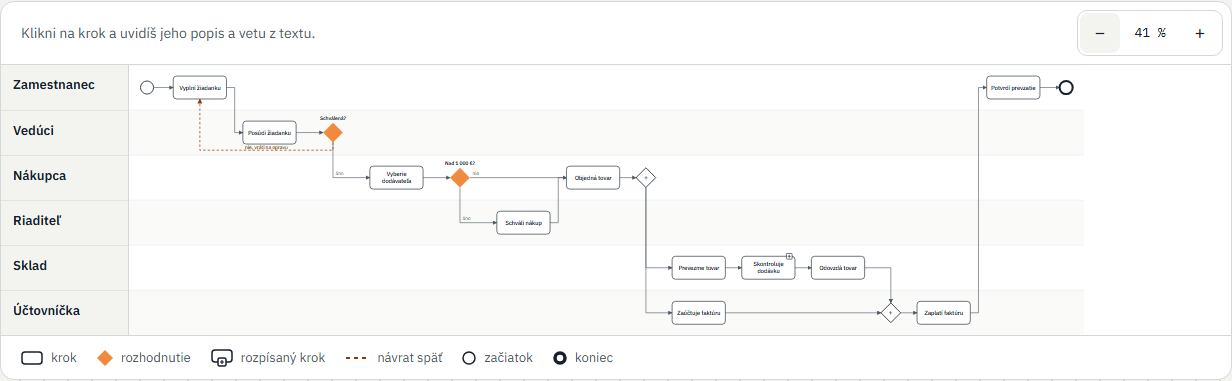
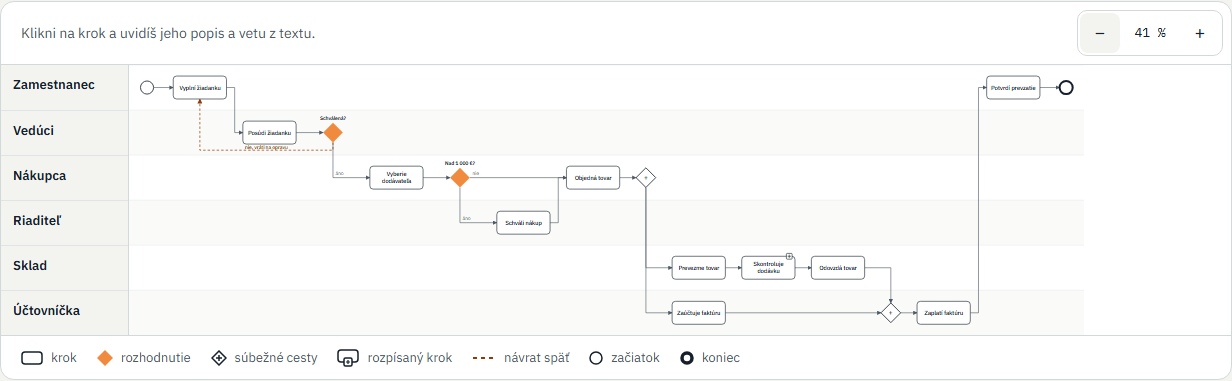
Dokumentácia podľa stavu z 2026-10-18.

Changed region(s): [[0.1542, 0.9239, 0.6169, 0.9528]]

diff --git a/index.md b/index.md
@@ -4,7 +4,7 @@ title: "Procesné mapy: čo appka zatiaľ vie"
 
 # Procesné mapy: čo appka zatiaľ vie
 
-Stav k 18. 10. 2026 o 21:01.
+Stav k 18. 10. 2026 o 22:10.
 
 Procesné mapy je webová aplikácia, ktorá z popisu procesu urobí procesnú mapu. Dnes vie z vloženého textu nakresliť prehľadovú mapu s krokmi rozdelenými podľa rolí a ktorýkoľvek krok rozpísať na detailnú mapu. Je zadarmo, s limitom 15 analýz mesačne na účet.
 
@@ -101,19 +101,24 @@ Keď AI niečo pochopí zle, mapu opravíš sám a nemusíš míňať analýzu. 
 
 - Prepíšeš názov a popis kroku, otázku rozhodnutia aj názvy vetiev.
 - Pridáš krok, ktorý AI vynechala, alebo zmažeš krok navyše. Mapa môže mať najviac 25 krokov.
-- Šípky kreslíš, mažeš a pomenúvaš, aj tie, ktoré vedú späť.
+- Pridáš alebo zmažeš aj rozhodnutie, súbežné cesty (rozdelenie a spojenie), začiatok a koniec.
+- Na šípku klikneš priamo na mape a pomenuješ ju alebo zmažeš. Nové šípky kreslíš v paneli kroku, aj tie, ktoré vedú späť.
 - Krok potiahneš do iného pásu, a tým mu zmeníš rolu. Pás premenuješ, posunieš hore alebo dole, alebo pridáš nový.
 - Počas úpravy máš „Späť“ a „Znova“, zmeny „Uložíš“ alebo „Zrušíš“.
 
 Prvé uloženie založí verziu „Upravená ručne“ a návrh od AI ostane ako staršia verzia. Zmenený krok má značku „Upravené ručne“, pridaný krok má namiesto vety z textu „Pridané ručne“ a dá sa rozpísať. Detaily krokov sa do novej verzie prenesú.
 
-![Úprava mapy: vybraný krok s názvom, popisom a pásom, tlačidlá na pridanie krokov a „Späť“, „Znova“, „Zrušiť“, „Uložiť“](obrazky/uprava-mapy.png)
+Mapu uložíš, aj keď ešte nie je hotová. Miesta, kde niečo chýba, majú červený výkričník a nad mapou je zoznam, čo treba dorobiť: krok bez šípky, chýbajúci začiatok alebo koniec, rozhodnutie s jednou vetvou či súbežné cesty, ktoré sa nespoja. Keď miesto opravíš, značka zmizne.
+
+![Rozbitá mapa v úprave: krok bez šípky ďalej a rozhodnutie, do ktorého nič nevedie, majú výkričník, nad mapou je zoznam toho, čo chýba](obrazky/rozbita-mapa.png)
+
+![Úprava mapy: vybraný krok s názvom, popisom a pásom, tlačidlá na pridanie kroku, rozhodnutia, súbežných ciest, začiatku a konca a „Späť“, „Znova“, „Zrušiť“, „Uložiť“](obrazky/uprava-mapy.png)
 
 ## Čo zatiaľ nevie a čo príde ďalej
 
 Dnes appka berie len vložený text. V tomto poradí prídu:
 
-1. Dokončenie ručnej úpravy: rozhodnutia a súbežné cesty, voľné rozmiestnenie krokov a zachovanie opráv pri novej analýze.
+1. Dokončenie ručnej úpravy: voľné rozmiestnenie krokov a zachovanie opráv pri novej analýze.
 2. Posielanie mapy odkazom niekomu inému.
 3. Nahratie dokumentu (Word, PDF…) ako vstupu.
 4. Nahratie záznamu alebo prepisu stretnutia.
